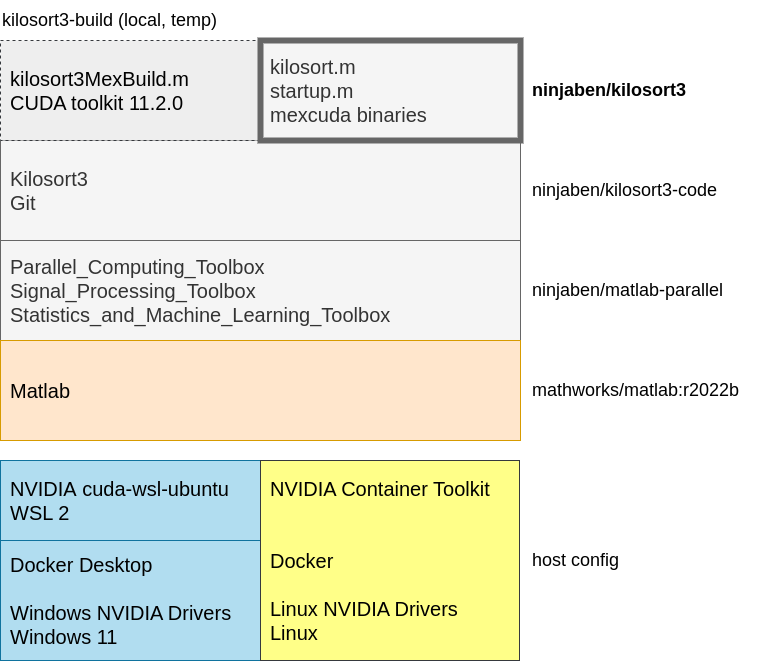
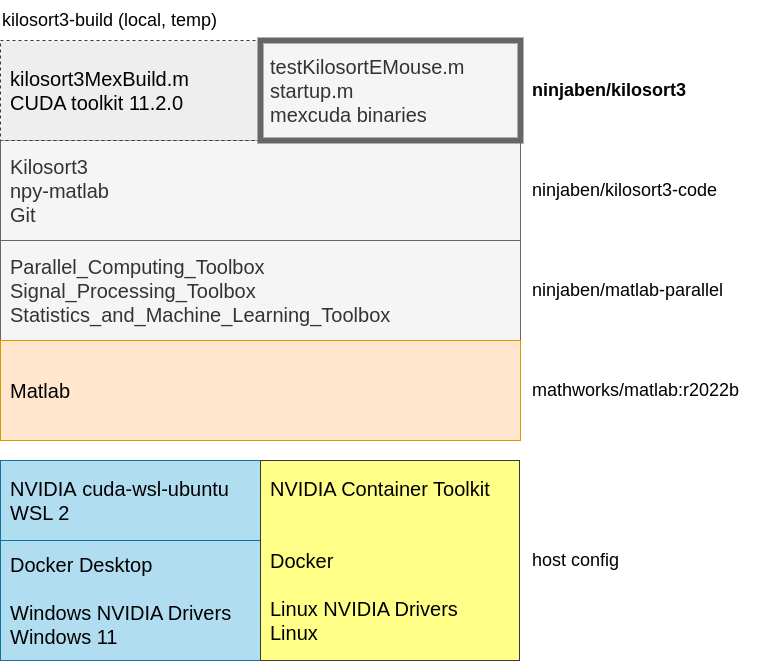
Add test testKilosortEMouse and npy-matlab dependency.

Changed region(s): [[0.0, 0.2421, 0.1511, 0.3328], [0.3627, 0.0908, 0.6045, 0.121]]

diff --git a/kilosort3/testKilosortEMouse.m b/kilosort3/testKilosortEMouse.m
@@ -1,0 +1,129 @@
+% Sanity check for Kilosort installation based on eMouse simulation.
+%
+% This function is intended for automated / unattended testing of a
+% Kilosort installation.  It uses the eMouse simulator to generate data to
+% be sorted, then invokes kilosort sourting routines that will try to do
+% spike sorting with Kilosort's GPU-accelerated mex-functions.
+%
+% If the installation is good:
+%  - This function should complete without error.
+%  - This function should print a summary to the Command Window / sdtout.
+%  - Sanity check assertions at the end of this function should pass.
+%
+% This was writting with Docker containers and Linux in mind.  It should
+% run on Windows, too (or we should update it to make that be so).
+%
+function success = testKilosortEMouse(eMouseDataDir, kilosortCodeDir, kilosortScratchDir)
+
+arguments
+    eMouseDataDir = fullfile(tempdir(), 'eMouse')
+    kilosortCodeDir = fileparts(which('kilosort.m'));
+    kilosortScratchDir = fullfile(tempdir(), 'kilosortScratch');
+end
+
+success = false;
+
+if ~isfolder(eMouseDataDir)
+    mkdir(eMouseDataDir)
+end
+
+% Create the simulated probe channel map: 64 sites with imec 3A geometry.
+NchanTOT = 64;
+chanMapName = make_eMouseChannelMap_3B_short(eMouseDataDir, NchanTOT);
+
+% Generate simulated neural data.
+useGPU = 1;
+useParPool = 0;
+make_eMouseData_drift(eMouseDataDir, kilosortCodeDir, chanMapName, useGPU, useParPool)
+
+% Choose kilosort options suitable for the simulated probe and neural data.
+% See Kilosort/configFiles/StandardConfig_MOVEME.m for some explanation.
+ops.chanMap = fullfile(eMouseDataDir, chanMapName);
+ops.NchanTOT = NchanTOT;
+
+ops.rootZ = eMouseDataDir;
+ops.fbinary = fullfile(eMouseDataDir,  'sim_binary.imec.ap.bin');
+ops.trange = [0 Inf];
+
+ops.fproc = fullfile(kilosortScratchDir, 'temp_wh.dat');
+
+ops.fs = 30000;
+ops.fshigh = 300;
+ops.minfr_goodchannels = 0.1;
+ops.Th = [6 2];
+ops.lam = 10;
+ops.AUCsplit = 0.9;
+ops.minFR = 1 / 50;
+ops.momentum = [20 400];
+ops.sigmaMask = 30;
+ops.sig = 20;
+ops.ThPre = 8;
+ops.reorder = 1;
+ops.nskip = 25;
+ops.spkTh = -6;
+ops.GPU = 1;
+ops.nfilt_factor = 4;
+ops.ntbuff = 64;
+ops.NT = 64 * 1024 + ops.ntbuff;
+ops.whiteningRange = 32;
+ops.nSkipCov = 25;
+ops.scaleproc = 200;
+ops.nPCs = 3;
+ops.useRAM = 0;
+ops.nblocks = 5;
+
+
+%% Run Kilosort utils on the simulated probe and neural data.
+
+% Reinitialize the GPU.
+gpuDevice(1);   %re-initialize GPU
+
+% Preprocess data including creation of temp file ops.fproc (temp_wh.dat).
+rez = preprocessDataSub(ops);
+
+% Do "registration" and "shifting" of data (?).
+rez = datashift2(rez, 1);
+
+% Main optimization (?).
+rez = learnAndSolve8b(rez, 1);
+
+% Final splits (?).
+rez = find_merges(rez, 1);
+
+% Final splits by SVD (?).
+rez = splitAllClusters(rez, 1);
+
+% Decide on cutoff (?).
+rez = set_cutoff(rez);
+rez.good = get_good_units(rez);
+
+% Export results to Numpy / Phy.
+rezToPhy(rez, eMouseDataDir);
+
+% Discard features in final rez file (too slow to save) (what??)
+rez.cProj = [];
+rez.cProjPC = [];
+
+rezFileName = fullfile(eMouseDataDir, 'rezFinal.mat');
+save(rezFileName, 'rez', '-v7.3');
+
+clusterGroupFile = fullfile(eMouseDataDir, 'cluster_group.tsv');
+fileID = fopen(clusterGroupFile, 'w');
+fprintf(fileID, 'cluster_id%sgroup', char(9));
+fprintf(fileID, char([13 10]));
+for k = 1:length(rez.good)
+    if rez.good(k)
+        fprintf(fileID, '%d%sgood', k-1, char(9));
+        fprintf(fileID, char([13 10]));
+    end
+end
+fclose(fileID);
+
+% Report sanity checks.
+sumOfGood = sum(rez.good>0);
+assert(any(sumOfGood), 'We didn''t find any good clusters');
+
+disp('We found some good clusters:')
+disp(sumOfGood)
+
+success = true;

diff --git a/kilosort3/startup.m b/kilosort3/startup.m
@@ -1,18 +1,27 @@
 % Log what we have here for official Matlab stuff.
 ver
 
+% Log what Matlab can find for GPU devices.
+try
+    gpuDevice
+catch e
+    warning(e.message)
+end
+
 % Get kilosort on the path.
 kilosortPath = '/home/matlab/kilosort';
 addpath(genpath(kilosortPath));
 
 fprintf('Found kilosort at %s\n', which('kilosort'));
 
-[~, gitStatus] = system(sprintf('git -C %s status', kilosortPath));
-fprintf('Kilosort git status:\n%s\n', gitStatus);
+[~, kilosortStatus] = system(sprintf('git -C %s status', kilosortPath));
+fprintf('Kilosort git status:\n%s\n', kilosortStatus);
 
-try
-    % Log what Matlab can find for GPU devices.
-    gpuDevice
-catch e
-    warning(e.message)
-end
+% Get npy-matlab on the path.
+npyMatlabPath = '/home/matlab/npy-matlab';
+addpath(fullfile(npyMatlabPath, 'npy-matlab'));
+
+fprintf('Found npy-matlab at %s\n', which('readNPY'));
+
+[~, npyMatlabStatus] = system(sprintf('git -C %s status', npyMatlabStatus));
+fprintf('npy-matlab git status:\n%s\n', gitStatus);

diff --git a/README.md b/README.md
@@ -51,7 +51,9 @@ This image starts from the offical [mathworks/matlab:r2022b](https://hub.docker.
 The [ninjaben/matlab-parallel](https://hub.docker.com/repository/docker/ninjaben/matlab-parallel/general) image is available on Docker Hub.
 
 ### `ninjaben/kilosort3-code`
-This image builds on `ninjaben/matlab-parallel` and adds Git and [Kilosort3](https://github.com/MouseLand/Kilosort).  It keeps Git installed as a way to check and report the commit hash of the Kilosort3 code being used.
+This image builds on `ninjaben/matlab-parallel` and adds Git, [Kilosort3](https://github.com/MouseLand/Kilosort), and [npy-matlab](https://github.com/kwikteam/npy-matlab).  It keeps Git installed as a way to check and report the commit hashes of cloned toolboxes.
+
+It also adds a test script, `testKilosortEMouse.m`, to serve as an automated test of the whole environment (see example commands, below).
 
 The [ninjaben/kilosort3-code](https://hub.docker.com/repository/docker/ninjaben/kilosort3-code/general) image is available on Docker Hub.
 
@@ -113,16 +115,17 @@ docker run --gpus all --rm \
   -v "$LICENSE_FILE":/licenses/license.lic \
   -e MLM_LICENSE_FILE=/licenses/license.lic \
   ninjaben/kilosort3:v0.0.3 \
-  -batch "kilosortEMouseTest()"
+  -batch "testKilosortEMouse()"
 ```
 
 After a successful run, Matlab should print a success message:
 
 ```
-  TODO!
+We found some good clusters:
+  ... good cluster counts ...
 ```
 
-TODO: make a version of the [eMouse example](https://github.com/MouseLand/Kilosort/blob/main/eMouse_drift/main_eMouse_drift.m) that can run unattended and make assertions, on Linux.  This is because [as of 2022](https://github.com/MouseLand/Kilosort/issues/476) Kilosort3 doesn't have an automated test suite we can run.
+The function `testKilosortEMouse.m` comes from this repo and is based on Kilosort's [eMouse example](https://github.com/MouseLand/Kilosort/blob/main/eMouse_drift/main_eMouse_drift.m).  It's been reshaped to run unattended, support Linux, and to report sanity check assertions.  This is needed because [as of 2022](https://github.com/MouseLand/Kilosort/issues/476) Kilosort3 doesn't have an automated test suite we can run.
 
 ## Kilosort3 spike sorting
 If the Kilosort test above looks good, then you could try doing some actual spike sorting.
